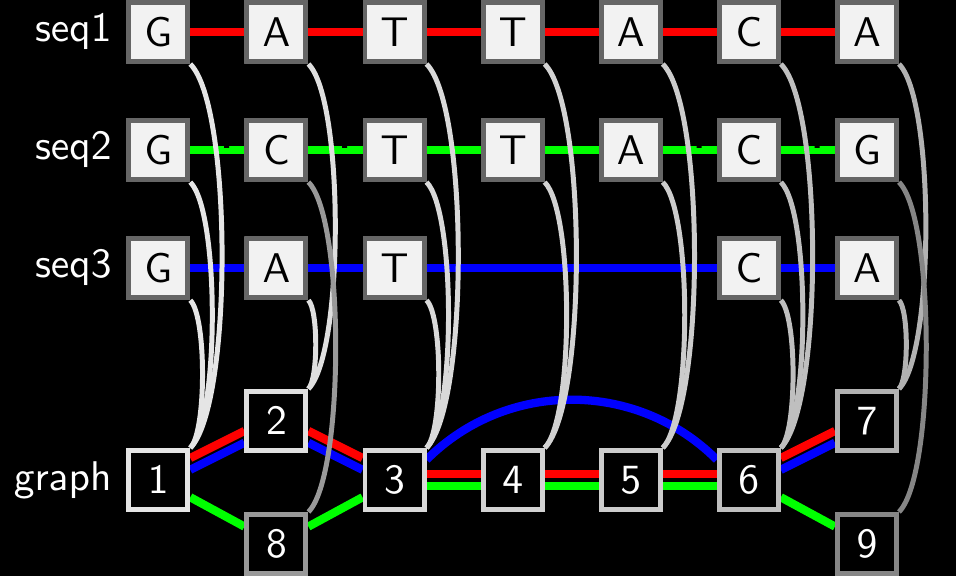
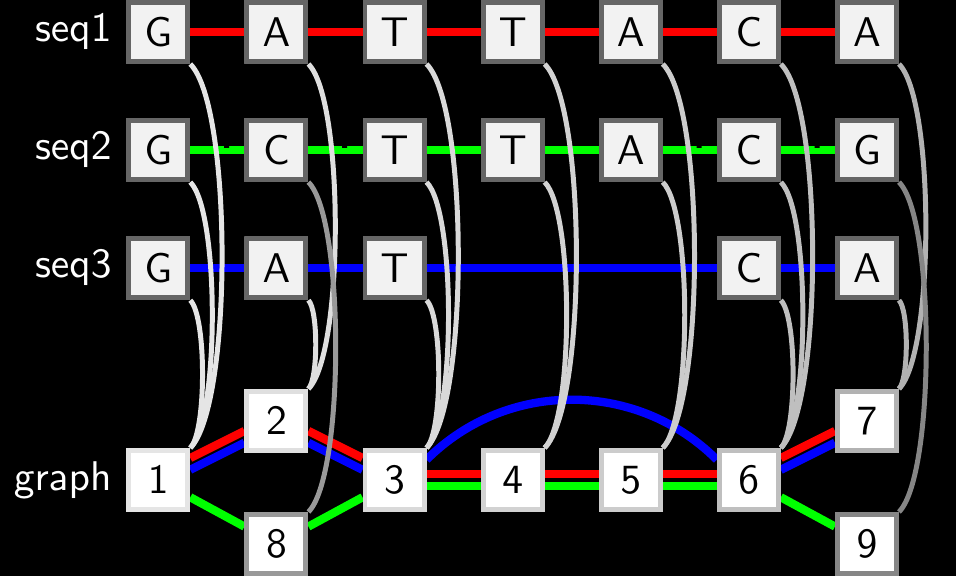
Invert graph node colors: white fill with black text
Changed graphnode style from black fill/white text to white
fill/black text, inverting the appearance of the bottom graph
nodes against the black background.

diff --git a/manuscript/fig_induction.tex b/manuscript/fig_induction.tex
@@ -22,7 +22,7 @@
     font=\sffamily,
     roundnode/.style={circle, draw=black!60, fill=gray!10, very thick, minimum size=7mm},
     squarednode/.style={rectangle, draw=black!60, fill=gray!10, text=black, very thick, minimum size=5mm},
-    graphnode/.style={rectangle, draw=black!60, fill=black!100, text=white, very thick, minimum size=5mm},
+    graphnode/.style={rectangle, draw=white!60, fill=white!100, text=black, very thick, minimum size=5mm},
     keynode/.style={rectangle, draw=black!60, fill=gray!10, thick, minimum size=1mm},
     pathnode/.style={rectangle, minimum size=5mm},
     %draw matchclosure/.style={very thick,color=gray!100}
